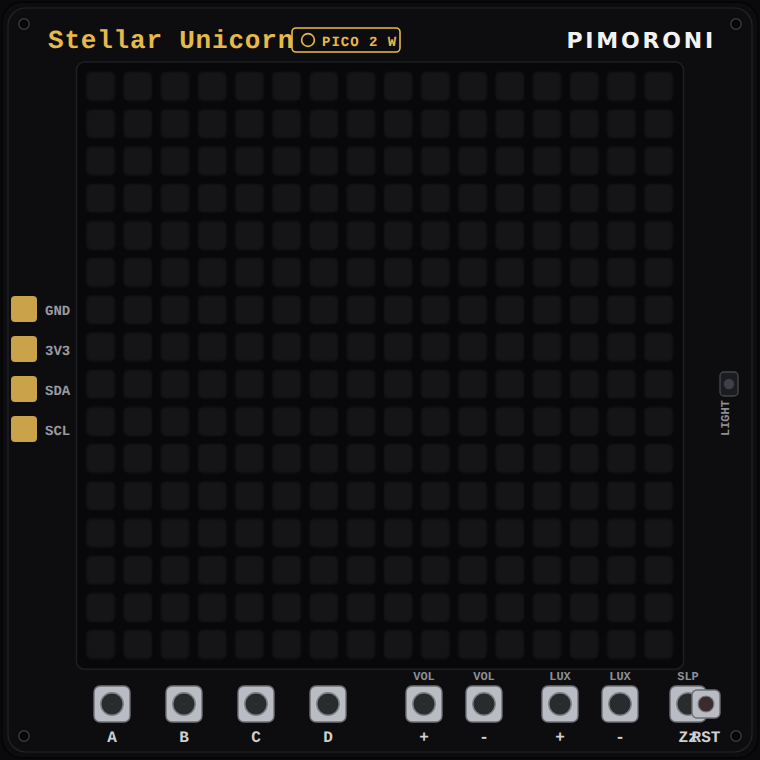
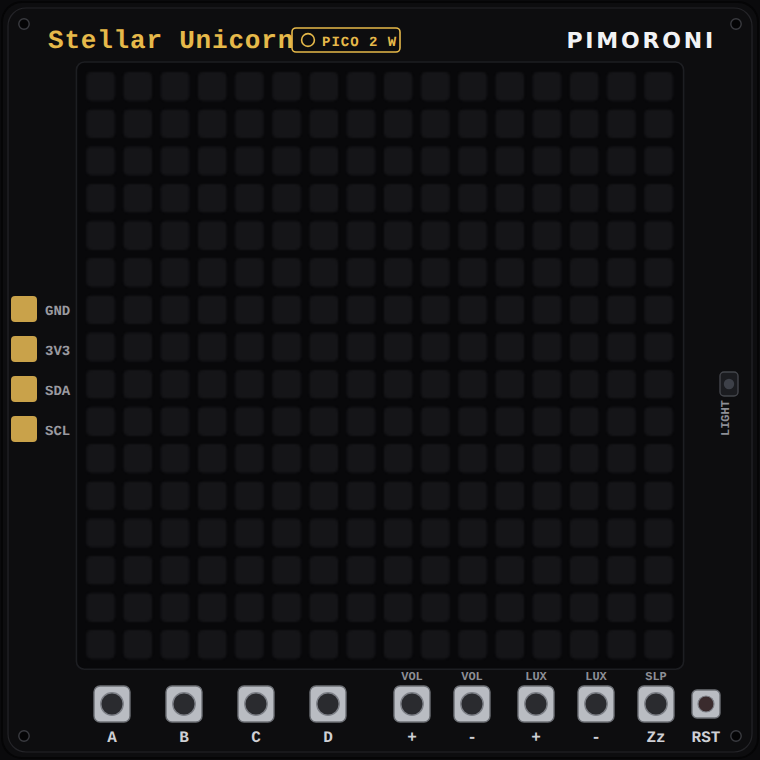
docs(boards): board art and pin maps regenerated where the elements had moved on
check-docs-board-art.py flagged 22 boards before this docs release. Re-
captured against velxio.dev, 20 pictures came out identical; the Stellar
Unicorn's RST button no longer overlaps SLP, the M5Stack Core labels are
the current ones, and six pin lists follow their element's order (the XIAO
pads of 2026-11-18 among them).

Changed region(s): [[0.5145, 0.8776, 0.9382, 0.9987]]

diff --git a/src/content/docs/boards/reference/xiao-esp32s3-sense.md b/src/content/docs/boards/reference/xiao-esp32s3-sense.md
@@ -36,31 +36,31 @@ If you want the plain S3 without the sensor board, that is
 ## Pins (25)
 
 <ul class="pin-grid">
-<li><span class="pin-name">D0</span></li>
 <li><span class="pin-name">1</span></li>
-<li><span class="pin-name">D1</span></li>
+<li><span class="pin-name">D0</span></li>
 <li><span class="pin-name">2</span></li>
-<li><span class="pin-name">D2</span></li>
+<li><span class="pin-name">D1</span></li>
 <li><span class="pin-name">3</span></li>
-<li><span class="pin-name">D3</span></li>
+<li><span class="pin-name">D2</span></li>
 <li><span class="pin-name">4</span></li>
-<li><span class="pin-name">D4</span></li>
+<li><span class="pin-name">D3</span></li>
 <li><span class="pin-name">5</span></li>
-<li><span class="pin-name">D5</span></li>
+<li><span class="pin-name">D4</span></li>
 <li><span class="pin-name">6</span></li>
-<li><span class="pin-name">D6</span></li>
+<li><span class="pin-name">D5</span></li>
 <li><span class="pin-name">43</span></li>
+<li><span class="pin-name">D6</span></li>
 <li><span class="pin-name">5V</span></li>
 <li><span class="pin-name">GND</span></li>
 <li><span class="pin-name">3V3</span></li>
-<li><span class="pin-name">D10</span></li>
 <li><span class="pin-name">9</span></li>
-<li><span class="pin-name">D9</span></li>
+<li><span class="pin-name">D10</span></li>
 <li><span class="pin-name">8</span></li>
-<li><span class="pin-name">D8</span></li>
+<li><span class="pin-name">D9</span></li>
 <li><span class="pin-name">7</span></li>
-<li><span class="pin-name">D7</span></li>
+<li><span class="pin-name">D8</span></li>
 <li><span class="pin-name">44</span></li>
+<li><span class="pin-name">D7</span></li>
 </ul>
 
 Every pin above is clickable on the canvas — click one to start a

diff --git a/src/content/docs/boards/reference/xiao-rp2040.md b/src/content/docs/boards/reference/xiao-rp2040.md
@@ -35,31 +35,31 @@ map below is the authority on that.
 ## Pins (25)
 
 <ul class="pin-grid">
-<li><span class="pin-name">D0</span></li>
 <li><span class="pin-name">26</span></li>
-<li><span class="pin-name">D1</span></li>
+<li><span class="pin-name">D0</span></li>
 <li><span class="pin-name">27</span></li>
-<li><span class="pin-name">D2</span></li>
+<li><span class="pin-name">D1</span></li>
 <li><span class="pin-name">28</span></li>
-<li><span class="pin-name">D3</span></li>
+<li><span class="pin-name">D2</span></li>
 <li><span class="pin-name">29</span></li>
-<li><span class="pin-name">D4</span></li>
+<li><span class="pin-name">D3</span></li>
 <li><span class="pin-name">6</span></li>
-<li><span class="pin-name">D5</span></li>
+<li><span class="pin-name">D4</span></li>
 <li><span class="pin-name">7</span></li>
-<li><span class="pin-name">D6</span></li>
+<li><span class="pin-name">D5</span></li>
 <li><span class="pin-name">0</span></li>
+<li><span class="pin-name">D6</span></li>
 <li><span class="pin-name">5V</span></li>
 <li><span class="pin-name">GND</span></li>
 <li><span class="pin-name">3V3</span></li>
-<li><span class="pin-name">D10</span></li>
 <li><span class="pin-name">3</span></li>
-<li><span class="pin-name">D9</span></li>
+<li><span class="pin-name">D10</span></li>
 <li><span class="pin-name">4</span></li>
-<li><span class="pin-name">D8</span></li>
+<li><span class="pin-name">D9</span></li>
 <li><span class="pin-name">2</span></li>
-<li><span class="pin-name">D7</span></li>
+<li><span class="pin-name">D8</span></li>
 <li><span class="pin-name">1</span></li>
+<li><span class="pin-name">D7</span></li>
 </ul>
 
 Every pin above is clickable on the canvas — click one to start a

diff --git a/src/content/docs/boards/reference/xiao-esp32c6.md b/src/content/docs/boards/reference/xiao-esp32c6.md
@@ -34,31 +34,31 @@ all built on this XIAO.
 ## Pins (25)
 
 <ul class="pin-grid">
-<li><span class="pin-name">D0</span></li>
 <li><span class="pin-name">0</span></li>
-<li><span class="pin-name">D1</span></li>
+<li><span class="pin-name">D0</span></li>
 <li><span class="pin-name">1</span></li>
-<li><span class="pin-name">D2</span></li>
+<li><span class="pin-name">D1</span></li>
 <li><span class="pin-name">2</span></li>
-<li><span class="pin-name">D3</span></li>
+<li><span class="pin-name">D2</span></li>
 <li><span class="pin-name">21</span></li>
-<li><span class="pin-name">D4</span></li>
+<li><span class="pin-name">D3</span></li>
 <li><span class="pin-name">22</span></li>
-<li><span class="pin-name">D5</span></li>
+<li><span class="pin-name">D4</span></li>
 <li><span class="pin-name">23</span></li>
-<li><span class="pin-name">D6</span></li>
+<li><span class="pin-name">D5</span></li>
 <li><span class="pin-name">16</span></li>
+<li><span class="pin-name">D6</span></li>
 <li><span class="pin-name">5V</span></li>
 <li><span class="pin-name">GND</span></li>
 <li><span class="pin-name">3V3</span></li>
-<li><span class="pin-name">D10</span></li>
 <li><span class="pin-name">18</span></li>
-<li><span class="pin-name">D9</span></li>
+<li><span class="pin-name">D10</span></li>
 <li><span class="pin-name">20</span></li>
-<li><span class="pin-name">D8</span></li>
+<li><span class="pin-name">D9</span></li>
 <li><span class="pin-name">19</span></li>
-<li><span class="pin-name">D7</span></li>
+<li><span class="pin-name">D8</span></li>
 <li><span class="pin-name">17</span></li>
+<li><span class="pin-name">D7</span></li>
 </ul>
 
 Every pin above is clickable on the canvas — click one to start a

diff --git a/src/content/docs/boards/reference/m5stack-core.md b/src/content/docs/boards/reference/m5stack-core.md
@@ -121,7 +121,7 @@ int count = 0;
 
 void setup() {
   auto cfg = M5.config();
-  // Force the Core Basic profile — QEMU can't run M5Unified's HW autodetect.
+  // Force the Core Basic profile — skips M5Unified's hardware autodetect.
   cfg.fallback_board = m5::board_t::board_M5Stack;
   M5.begin(cfg);
 
@@ -203,7 +203,7 @@ The Basic Core v2.7 is sold on the [M5Stack store](https://shop.m5stack.com/prod
 Every example on this page runs in the browser without it, and the same
 sketch runs unchanged on the real board.
 
-*Affiliate link: if you buy through it, Velxio earns a small commission at no extra cost to you.*
+_Affiliate link: if you buy through it, Velxio earns a small commission at no extra cost to you._
 
 ## Pins (51)
 

diff --git a/src/content/docs/boards/reference/unihiker-m10.md b/src/content/docs/boards/reference/unihiker-m10.md
@@ -42,7 +42,7 @@ The UNIHIKER M10 is sold on the [DFRobot store](https://www.dfrobot.com/product-
 Every example on this page runs in the browser without it, and the same
 script runs unchanged on the real board.
 
-*Affiliate link: if you buy through it, Velxio earns a small commission at no extra cost to you.*
+_Affiliate link: if you buy through it, Velxio earns a small commission at no extra cost to you._
 
 ## Pins (11)
 

diff --git a/src/content/docs/boards/reference/esp32.md b/src/content/docs/boards/reference/esp32.md
@@ -36,8 +36,8 @@ the [oscilloscope](/docs/instruments/oscilloscope/) page and the
 
 <ul class="pin-grid">
 <li><span class="pin-name">EN</span></li>
-<li><span class="pin-name">VN</span></li>
 <li><span class="pin-name">VP</span></li>
+<li><span class="pin-name">VN</span></li>
 <li><span class="pin-name">34</span></li>
 <li><span class="pin-name">35</span></li>
 <li><span class="pin-name">32</span></li>
